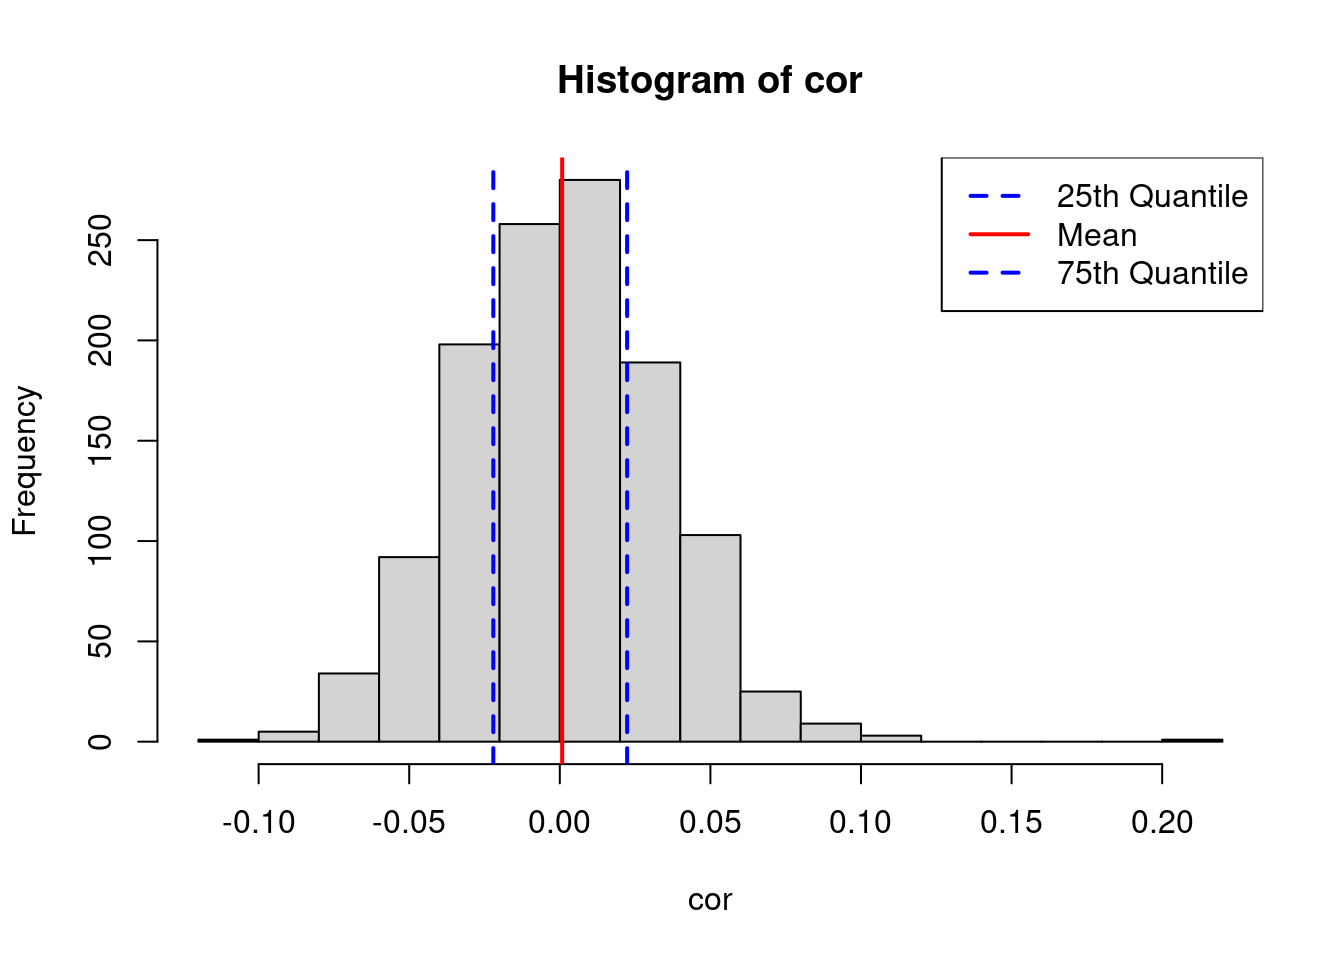
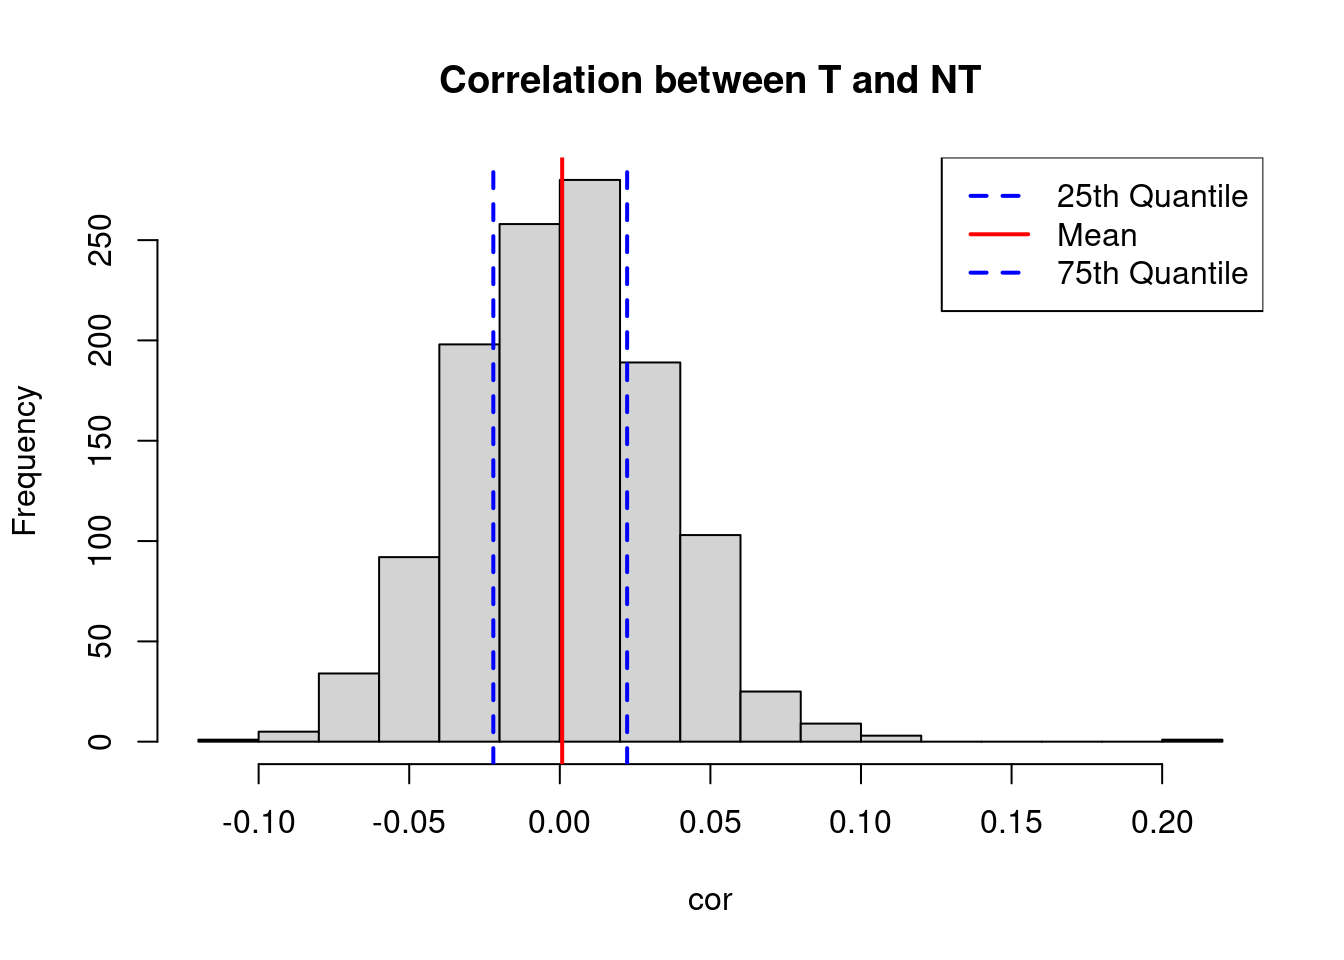
Build site.

Changed region(s): [[0.3125, 0.0625, 0.75, 0.125]]

diff --git a/docs/ukb_EDA.html b/docs/ukb_EDA.html
@@ -522,15 +522,15 @@ project makes it easier to run your code on other machines.</p>
 <div class="panel panel-default">
 <div class="panel-heading">
 <p class="panel-title">
-<a data-toggle="collapse" data-parent="#workflowr-checks" href="#strongRepositoryversionstrongahrefhttpsgithubcomyunqiyang0215simulationcalibratedmrtree036b26370390e4e44f4d1e70c9dd6a8e853bf345targetblank036b263a">
+<a data-toggle="collapse" data-parent="#workflowr-checks" href="#strongRepositoryversionstrongahrefhttpsgithubcomyunqiyang0215simulationcalibratedmrtree18786dde388b74dd785575b8fd844c25008e8572targetblank18786dda">
 <span class="glyphicon glyphicon-ok text-success"
 aria-hidden="true"></span> <strong>Repository version:</strong>
-<a href="https://github.com/yunqiyang0215/simulation-calibrated-mr/tree/036b26370390e4e44f4d1e70c9dd6a8e853bf345" target="_blank">036b263</a>
+<a href="https://github.com/yunqiyang0215/simulation-calibrated-mr/tree/18786dde388b74dd785575b8fd844c25008e8572" target="_blank">18786dd</a>
 </a>
 </p>
 </div>
 <div
[2 lines of base64/hex data omitted]
 class="panel-collapse collapse">
 <div class="panel-body">
 <p>
@@ -540,7 +540,7 @@ reproducibility.
 </p>
 <p>
 The results in this page were generated with repository version
-<a href="https://github.com/yunqiyang0215/simulation-calibrated-mr/tree/036b26370390e4e44f4d1e70c9dd6a8e853bf345" target="_blank">036b263</a>.
+<a href="https://github.com/yunqiyang0215/simulation-calibrated-mr/tree/18786dde388b74dd785575b8fd844c25008e8572" target="_blank">18786dd</a>.
 See the <em>Past versions</em> tab to see a history of the changes made
 to the R Markdown and HTML files.
 </p>
@@ -610,6 +610,40 @@ Message
 Rmd
 </td>
 <td>
+<a href="https://github.com/yunqiyang0215/simulation-calibrated-mr/blob/18786dde388b74dd785575b8fd844c25008e8572/analysis/ukb_EDA.Rmd" target="_blank">18786dd</a>
+</td>
+<td>
+yunqi yang
+</td>
+<td>
+2024-02-01
+</td>
+<td>
+wflow_publish("analysis/ukb_EDA.Rmd")
+</td>
+</tr>
+<tr>
+<td>
+html
+</td>
+<td>
+<a href="https://rawcdn.githack.com/yunqiyang0215/simulation-calibrated-mr/568dd8b592f3128b9dced7bc708038c2486217ba/docs/ukb_EDA.html" target="_blank">568dd8b</a>
+</td>
+<td>
+yunqi yang
+</td>
+<td>
+2024-02-01
+</td>
+<td>
+Build site.
+</td>
+</tr>
+<tr>
+<td>
+Rmd
+</td>
+<td>
 <a href="https://github.com/yunqiyang0215/simulation-calibrated-mr/blob/036b26370390e4e44f4d1e70c9dd6a8e853bf345/analysis/ukb_EDA.Rmd" target="_blank">036b263</a>
 </td>
 <td>
@@ -641,7 +675,7 @@ nontrans.all = dat_child[, c(1200: 2397)]</code></pre>
 cor = unlist(lapply(1:p, function(i) cor(nontrans.all[, i], trans.all[, i])))
 
 
-hist(cor)
+hist(cor, main = &quot;Correlation between T and NT&quot;)
 q25 &lt;- quantile(cor, 0.25)
 m &lt;- mean(cor)
 q75 &lt;- quantile(cor, 0.75)
@@ -652,6 +686,43 @@ abline(v = q75, col = &quot;blue&quot;, lwd = 2, lty = 2)
 legend(&quot;topright&quot;, legend=c(&quot;25th Quantile&quot;, &quot;Mean&quot;, &quot;75th Quantile&quot;), 
        col=c(&quot;blue&quot;, &quot;red&quot;, &quot;blue&quot;), lwd=2, lty=c(2,1,2))</code></pre>
 <p><img src="figure/ukb_EDA.Rmd/unnamed-chunk-2-1.png" width="672" style="display: block; margin: auto;" /></p>
+<p>
+<button type="button" class="btn btn-default btn-xs btn-workflowr btn-workflowr-fig" data-toggle="collapse" data-target="#fig-unnamed-chunk-2-1">
+Past versions of unnamed-chunk-2-1.png
+</button>
+</p>
+<div id="fig-unnamed-chunk-2-1" class="collapse">
+<div class="table-responsive">
+<table class="table table-condensed table-hover">
+<thead>
+<tr>
+<th>
+Version
+</th>
+<th>
+Author
+</th>
+<th>
+Date
+</th>
+</tr>
+</thead>
+<tbody>
+<tr>
+<td>
+<a href="https://github.com/yunqiyang0215/simulation-calibrated-mr/blob/568dd8b592f3128b9dced7bc708038c2486217ba/docs/figure/ukb_EDA.Rmd/unnamed-chunk-2-1.png" target="_blank">568dd8b</a>
+</td>
+<td>
+yunqi yang
+</td>
+<td>
+2024-02-01
+</td>
+</tr>
+</tbody>
+</table>
+</div>
+</div>
 </div>
 <div id="check-correlation-between-transmitted-alleles"
 class="section level3">
@@ -660,6 +731,43 @@ class="section level3">
 upperTriValues &lt;- corMatrix[upper.tri(corMatrix, diag = FALSE)]
 hist(upperTriValues, xlab = &quot;correlation&quot;, main = &quot;SNP correlations&quot;)</code></pre>
 <p><img src="figure/ukb_EDA.Rmd/unnamed-chunk-3-1.png" width="672" style="display: block; margin: auto;" /></p>
+<p>
+<button type="button" class="btn btn-default btn-xs btn-workflowr btn-workflowr-fig" data-toggle="collapse" data-target="#fig-unnamed-chunk-3-1">
+Past versions of unnamed-chunk-3-1.png
+</button>
+</p>
+<div id="fig-unnamed-chunk-3-1" class="collapse">
+<div class="table-responsive">
+<table class="table table-condensed table-hover">
+<thead>
+<tr>
+<th>
+Version
+</th>
+<th>
+Author
+</th>
+<th>
+Date
+</th>
+</tr>
+</thead>
+<tbody>
+<tr>
+<td>
+<a href="https://github.com/yunqiyang0215/simulation-calibrated-mr/blob/568dd8b592f3128b9dced7bc708038c2486217ba/docs/figure/ukb_EDA.Rmd/unnamed-chunk-3-1.png" target="_blank">568dd8b</a>
+</td>
+<td>
+yunqi yang
+</td>
+<td>
+2024-02-01
+</td>
+</tr>
+</tbody>
+</table>
+</div>
+</div>
 <br>
 <p>
 <button type="button" class="btn btn-default btn-workflowr btn-workflowr-sessioninfo" data-toggle="collapse" data-target="#workflowr-sessioninfo" style="display: block;">
